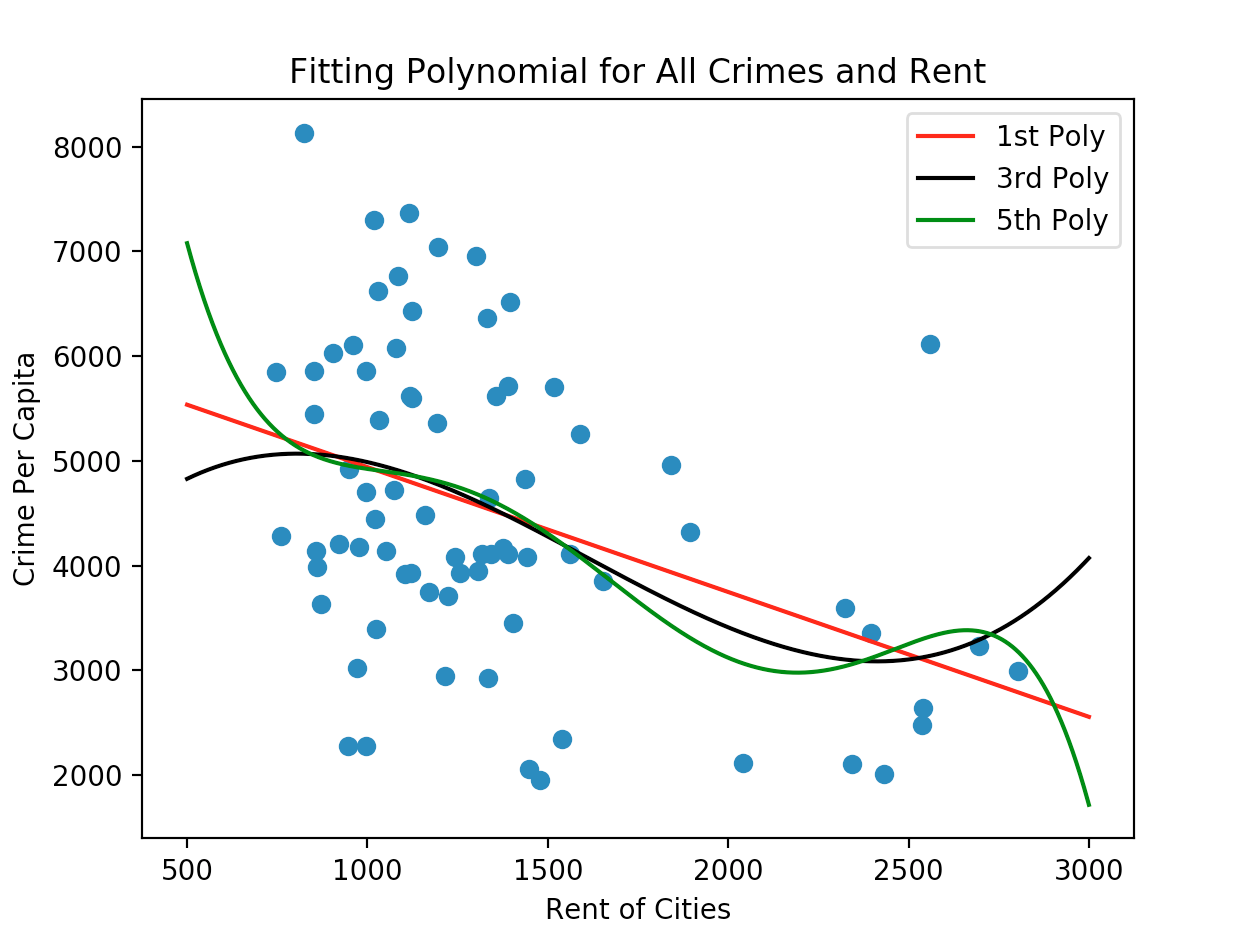
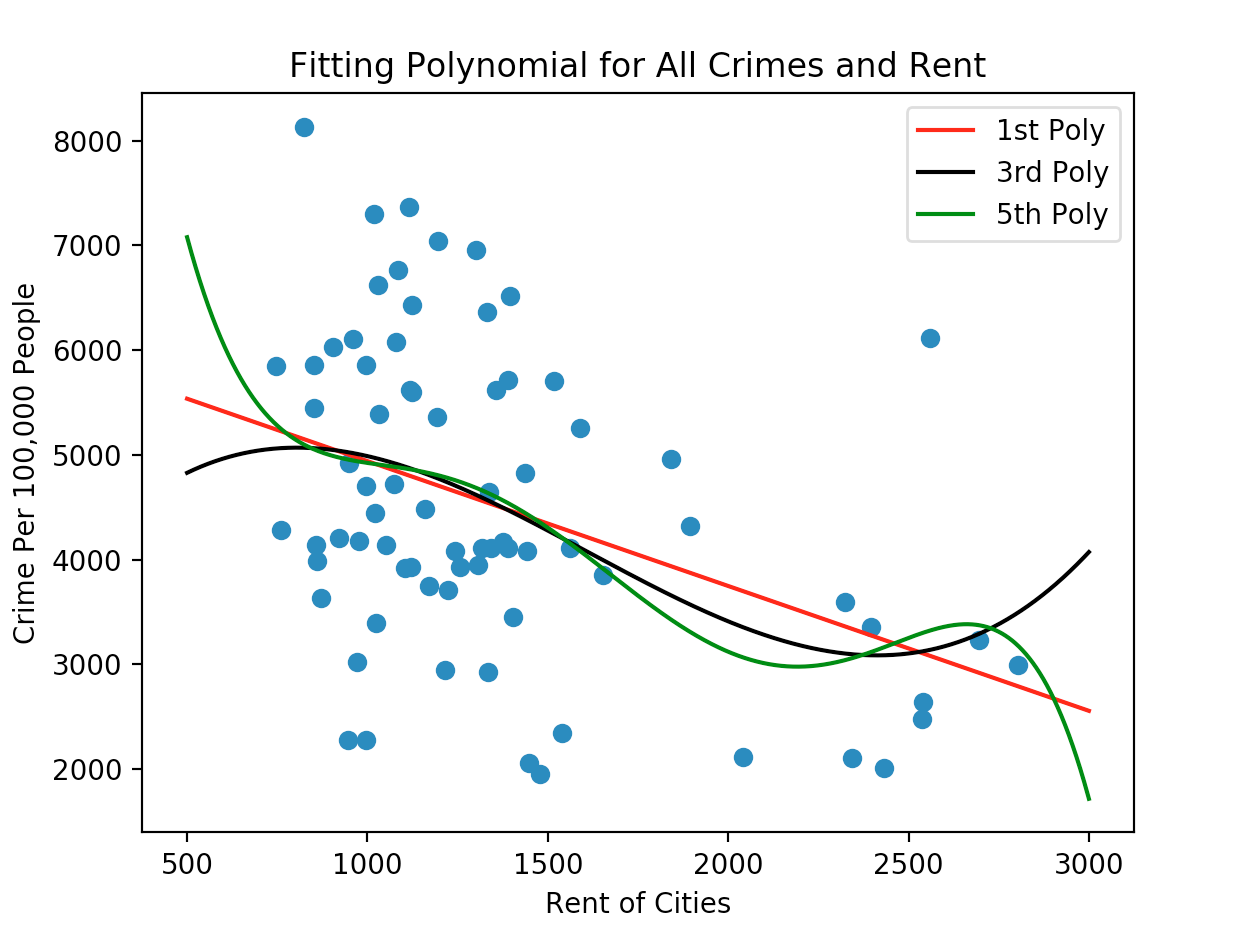
update graphs

diff --git a/nationalCityCrime.py b/nationalCityCrime.py
@@ -59,7 +59,7 @@ for city in commonCityList:
 
 vrGraph = plt.figure(1)
 plt.xlabel("Rent of Cities")
-plt.ylabel("Violent Crime Per Capita")
+plt.ylabel("Violent Crime Per 100,000 People")
 plt.title("Violent Crime and Rent")
 plt.scatter(X, vrY)
 vrGraph.show()
@@ -74,7 +74,7 @@ for city in commonCityList:
 prGraph = plt.figure(2)
 plt.scatter(X, prY)
 plt.xlabel("Rent of Cities")
-plt.ylabel("Property Crime Per Capita")
+plt.ylabel("Property Crime Per 100,000 People")
 plt.title("Property Crime and Rent")
 prGraph.show()
 
@@ -89,7 +89,7 @@ for city in commonCityList:
 crGraph = plt.figure(3)
 plt.scatter(X, crY)
 plt.xlabel("Rent of Cities")
-plt.ylabel("Crime Per Capita")
+plt.ylabel("Crime Per 100,000 People")
 plt.title("Fitting Polynomial for All Crimes and Rent")
 crP1 = np.poly1d(np.polyfit(X, crY, 1))
 crP3 = np.poly1d(np.polyfit(X, crY, 3))
